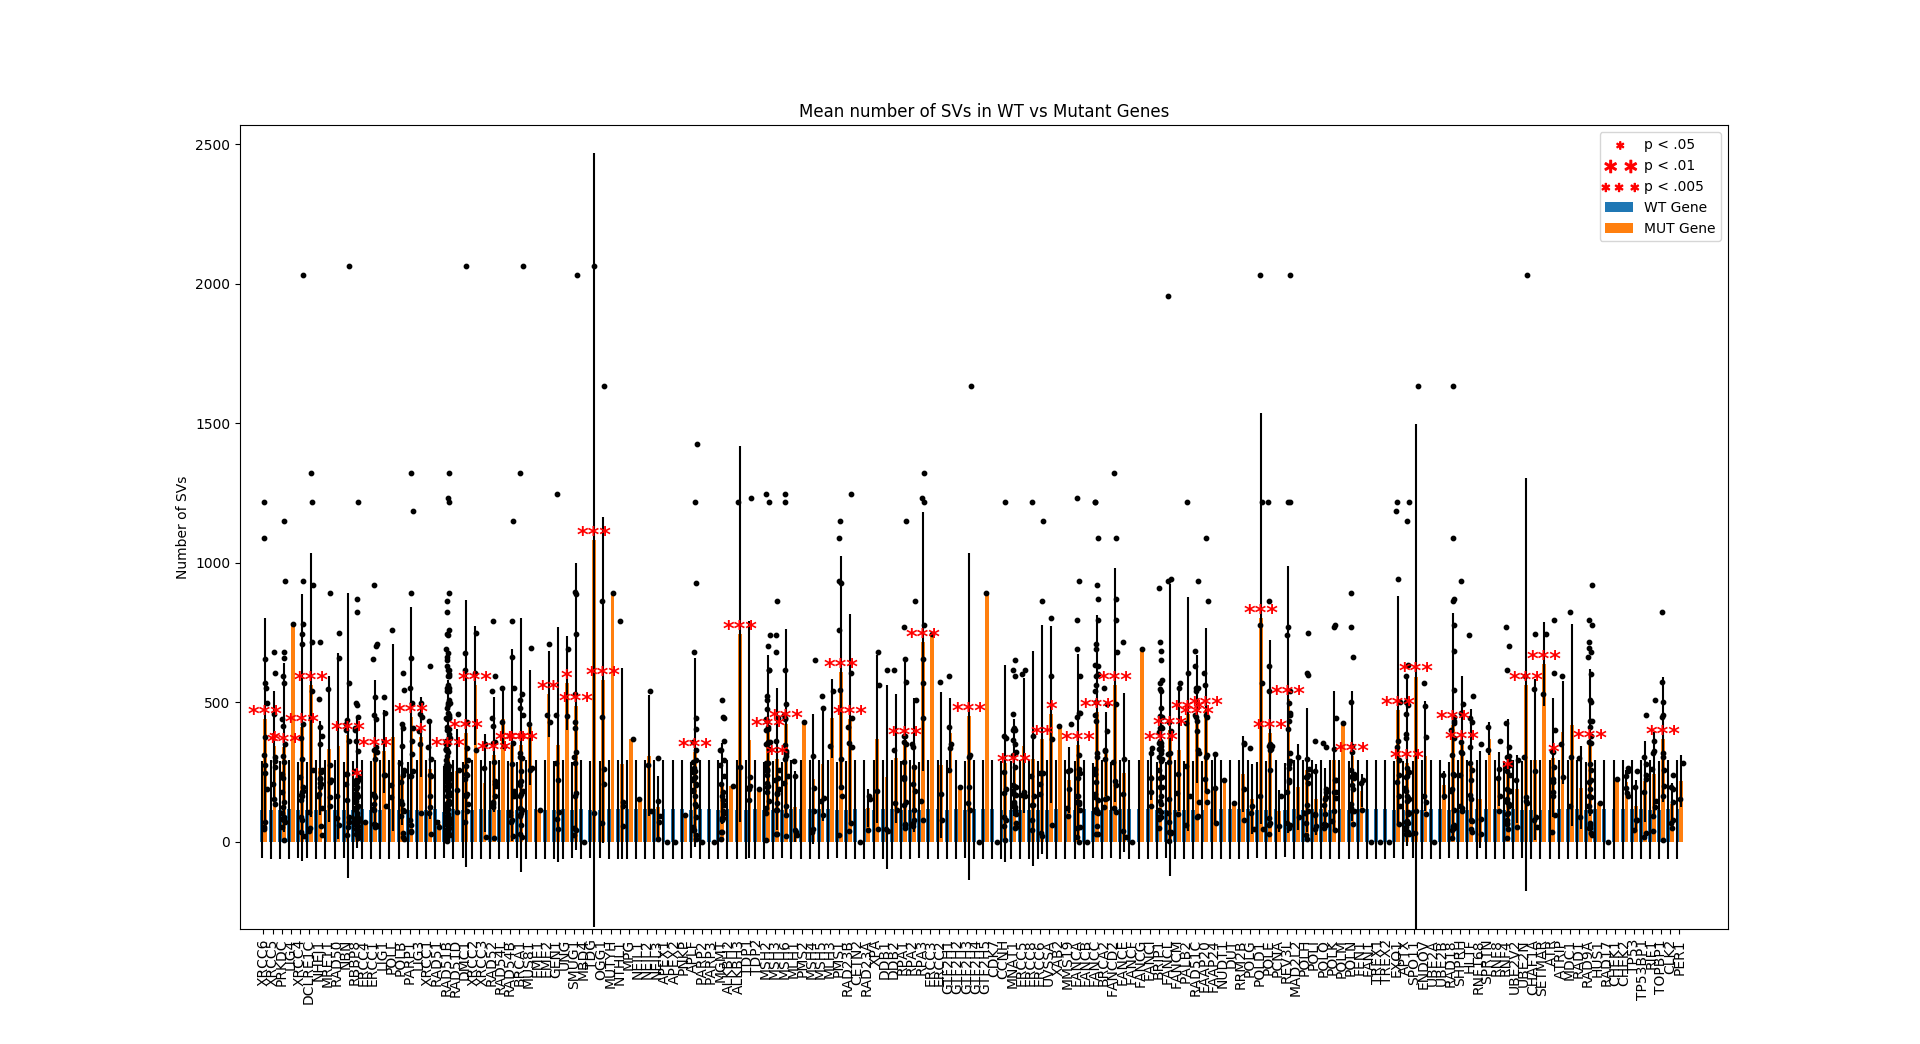
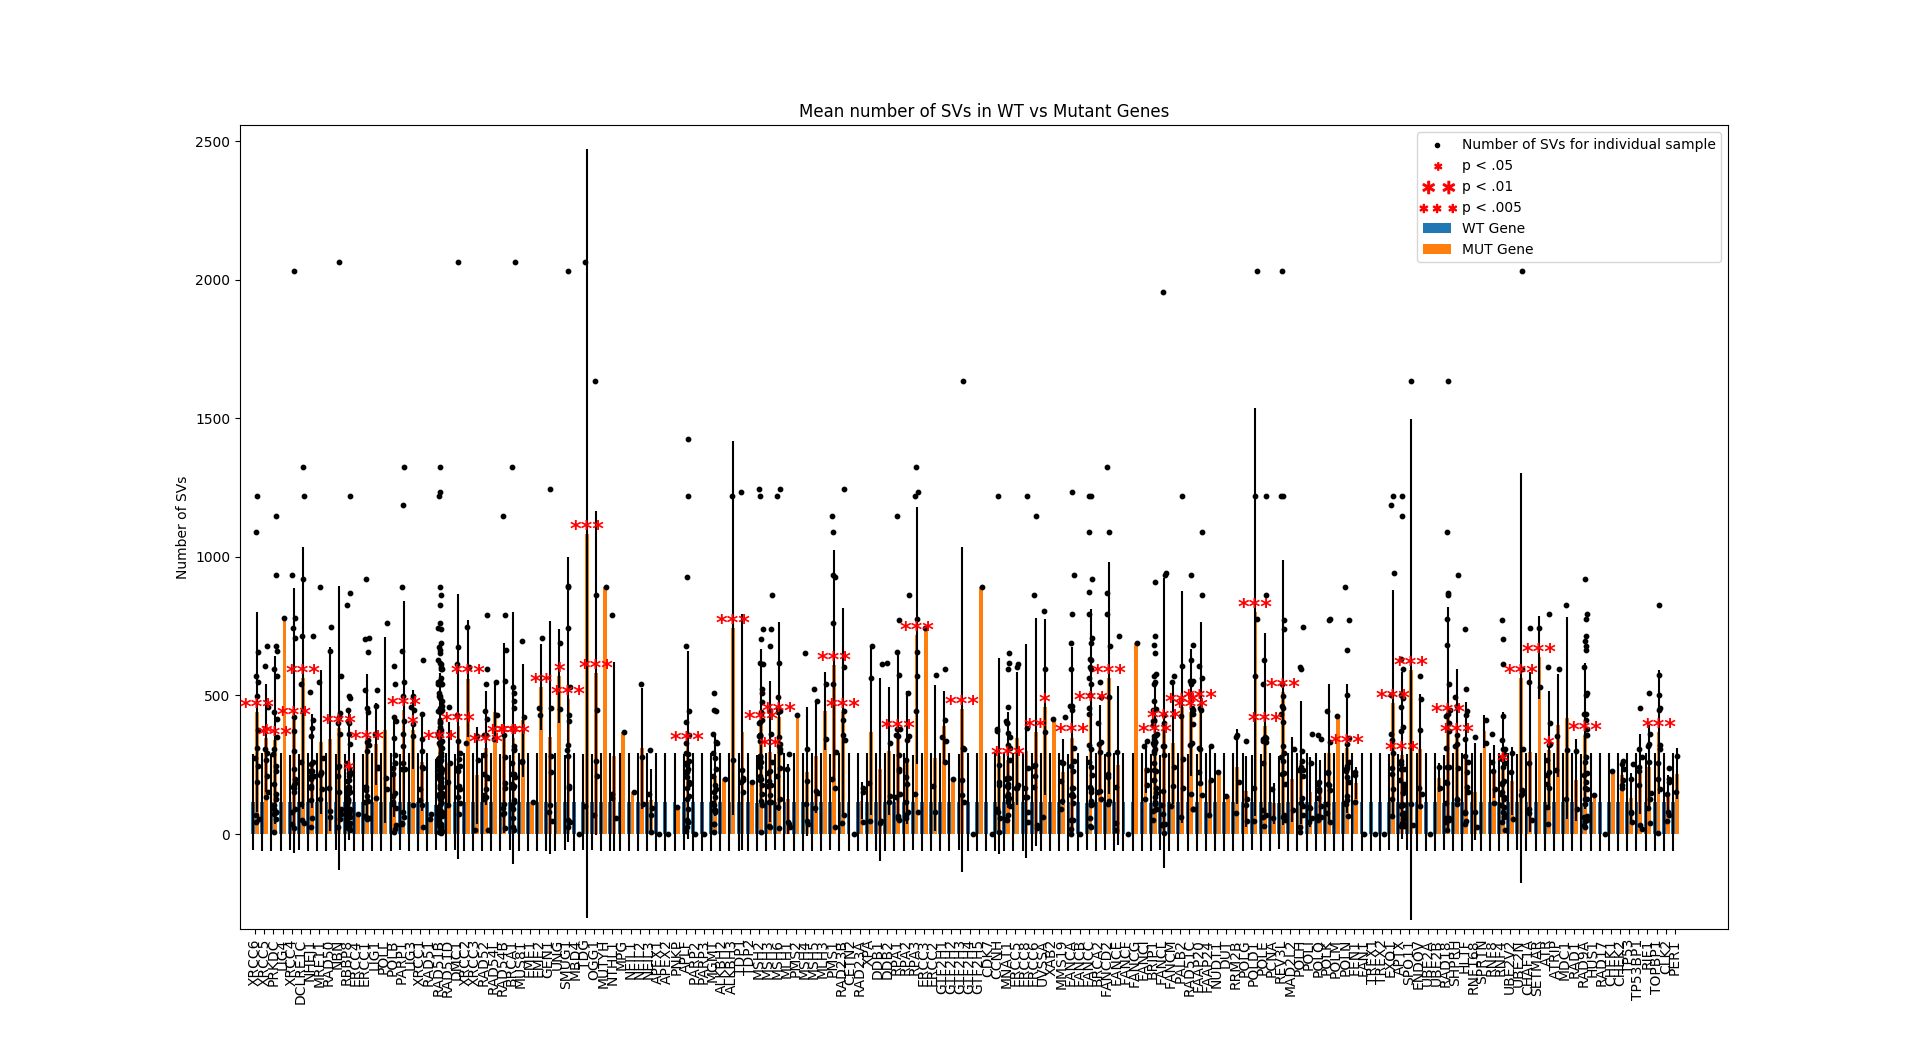
updated keys in plots and started SV analysis

diff --git a/SVPlots/signif.py b/SVPlots/signif.py
@@ -88,9 +88,9 @@ labels = []
 #     pValues.append(value)
 #     print(value)
 
-# pValues = parser.load_obj('WTvsMUTpvalues')
-# data = parser.load_obj('WTvsMUTdata')
-# labels = parser.load_obj('labels')
+pValues = parser.load_obj('WTvsMUTpvalues')
+data = parser.load_obj('WTvsMUTdata')
+labels = parser.load_obj('labels')
 # the x locations for the groups
 ind = np.arange(start=0, stop=len(data)*1.5, step=3)
 width = 1.25  # the width of the bars
@@ -121,6 +121,8 @@ ax2.set_title('Mean number of SVs in WT vs Mutant Genes')
 ax2.set_xticks(ind)
 ax2.set_xticklabels(labels)
 plt.xticks(rotation=90)
+plt.scatter([], [], marker='.', label="Number of SVs for individual sample",
+            color='black', linestyle='None')
 plt.scatter([], [], marker=r'$\ast$', label="p < .05",
             color='red', linestyle='None')
 plt.scatter([], [], marker=r'$\ast\ast$', label="p < .01",
